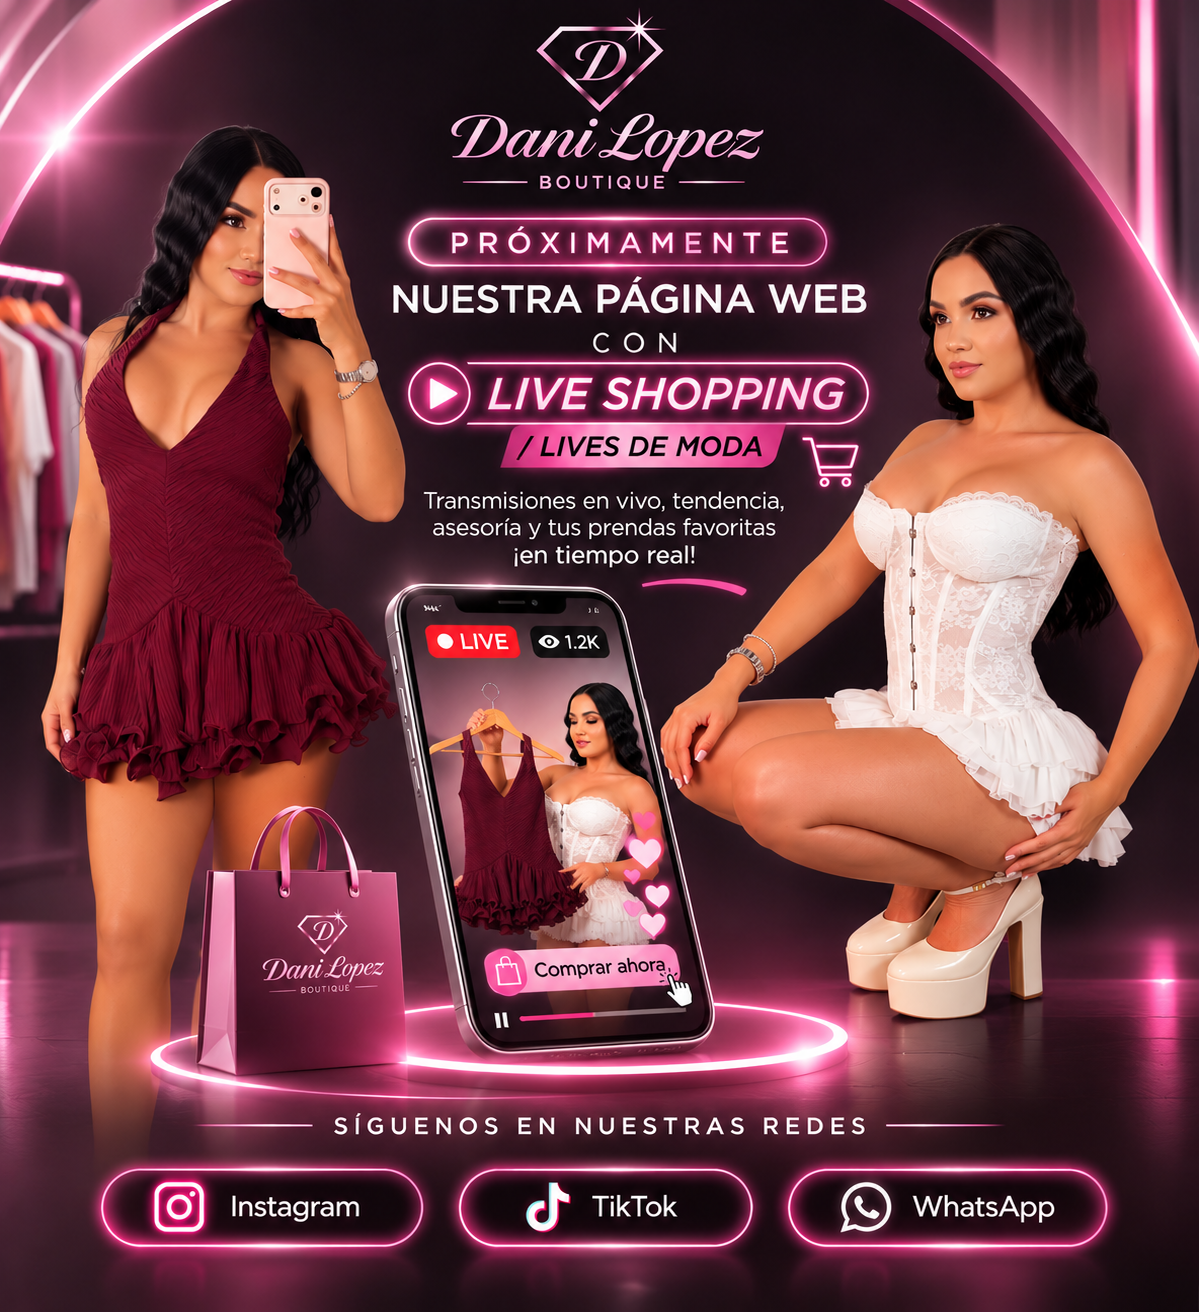
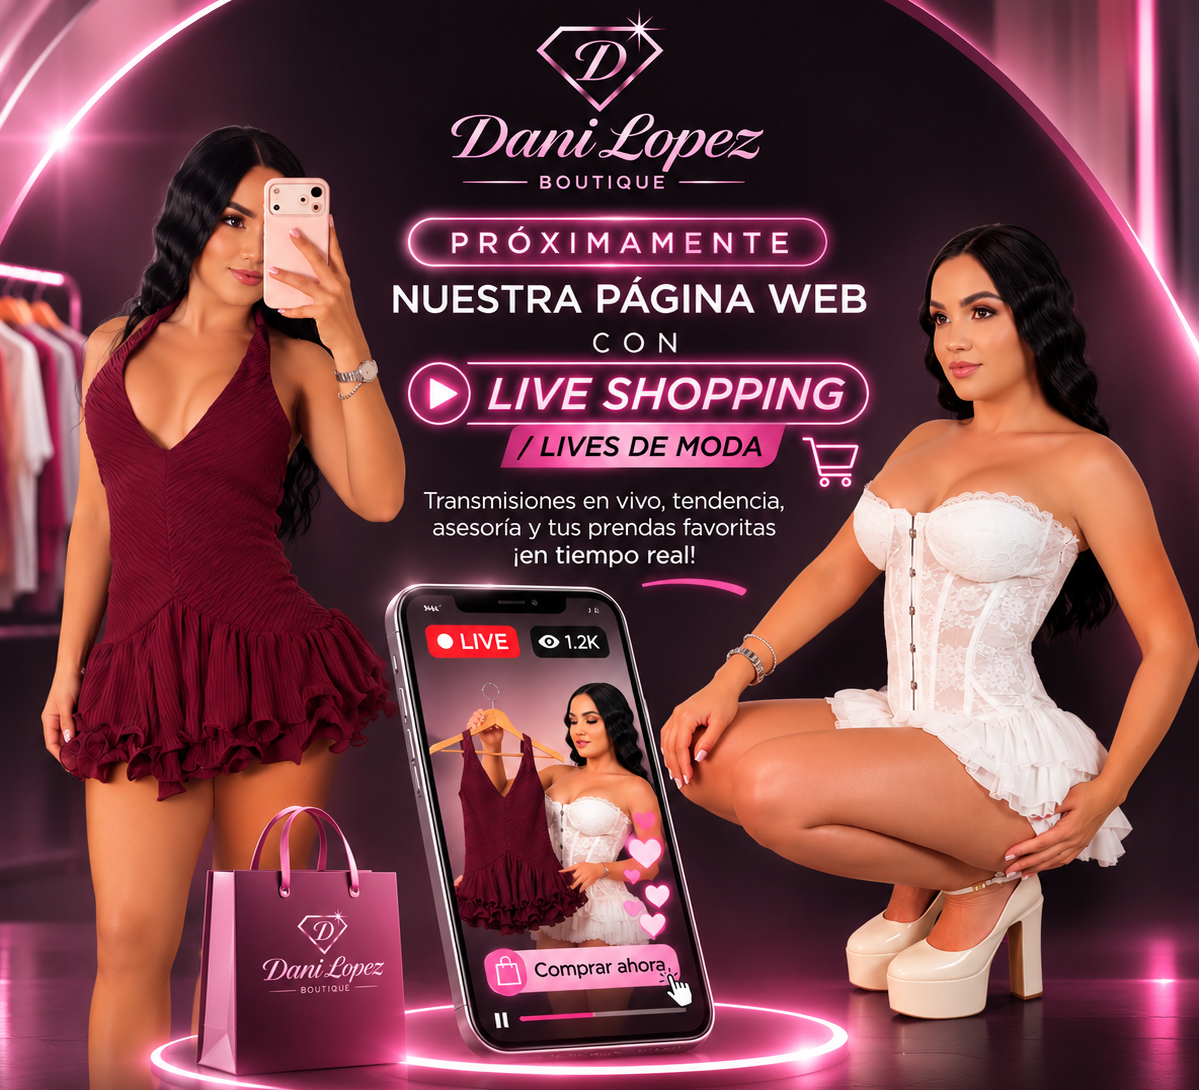
Add files via upload

diff --git a/index.html b/index.html
@@ -3,43 +3,120 @@
 <head>
   <meta charset="utf-8">
   <meta name="viewport" content="width=device-width, initial-scale=1">
-  <meta name="theme-color" content="#160914">
-  <meta name="description" content="Dani López Boutique: próximamente nuestra tienda online y lives de moda. Síguenos en Instagram, TikTok y WhatsApp.">
+  <meta name="theme-color" content="#180b17">
+  <meta name="description" content="Dani López Boutique: próximamente nuestra tienda con Live Shopping y lives de moda. Encuéntranos en Instagram, TikTok y WhatsApp.">
   <title>Dani López Boutique | Próximamente · Live Shopping</title>
   <link rel="preload" as="image" href="campana-live-shopping.png">
   <style>
-    :root{color-scheme:dark;--pink:#ff75b8;--pink-light:#ffd6e9;--bg:#120911}
-    *{box-sizing:border-box}
-    html{background:var(--bg);scroll-behavior:smooth}
-    body{margin:0;min-height:100vh;display:flex;align-items:center;justify-content:center;padding:clamp(8px,2vw,28px);font-family:Arial,Helvetica,sans-serif;background:radial-gradient(ellipse 65% 65% at 50% 40%,#5b1b44 0%,#240e20 55%,#0d070c 100%);color:#fff}
-    main{width:min(100%,950px);margin:auto}
-    .poster{position:relative;isolation:isolate;overflow:hidden;border:1px solid rgba(255,173,217,.29);border-radius:clamp(12px,2vw,24px);box-shadow:0 0 32px rgba(255,70,160,.16),0 30px 90px rgba(0,0,0,.5)}
-    .poster img{display:block;width:100%;height:auto;user-select:none;-webkit-user-drag:none}
-    /* Las áreas interactivas coinciden con los tres botones impresos en la imagen. */
-    .social{position:absolute;top:86.7%;height:6.25%;display:block;border-radius:999px;z-index:2;text-decoration:none;outline:none;-webkit-tap-highlight-color:transparent;transition:box-shadow .28s ease,transform .28s ease,background-color .28s ease,filter .28s ease}
-    .social.instagram{left:8.1%;width:27.8%}
-    .social.tiktok{left:39.0%;width:24.8%}
-    .social.whatsapp{left:66.7%;width:26.5%}
-    .social:hover,.social:focus-visible{transform:translateY(-5px) scale(1.055);background:rgba(255,124,193,.12);box-shadow:0 0 0 2px rgba(255,200,230,.85),0 0 16px 5px rgba(255,78,172,.82),0 0 36px 10px rgba(255,43,147,.58),inset 0 0 14px rgba(255,190,220,.3);filter:brightness(1.15)}
-    .social:active{transform:translateY(-1px) scale(1.02)}
-    .social::after{content:"";position:absolute;inset:-2px;border-radius:inherit;background:linear-gradient(110deg,transparent 25%,rgba(255,255,255,.55) 45%,transparent 58%);background-size:240% 100%;background-position:130% 0;opacity:0;pointer-events:none}
-    .social:hover::after,.social:focus-visible::after{opacity:.75;animation:glint .7s ease-out both}
-    @keyframes glint{from{background-position:130% 0}to{background-position:-130% 0}}
-    .footer{padding:13px 12px 4px;text-align:center;color:#d4b4c6;font-size:12px;letter-spacing:.03em}
-    .footer a{color:#ffd2e8;text-underline-offset:3px}
-    @media (hover:none){.social:active{background:rgba(255,124,193,.22);box-shadow:0 0 0 2px var(--pink-light),0 0 18px 6px var(--pink)}}
-    @media(prefers-reduced-motion:reduce){*,*::before,*::after{animation:none!important;transition:none!important}}
+    :root {
+      color-scheme: dark;
+      --rose: #ee94be;
+      --rose-soft: #f9c8df;
+      --rose-muted: #b5638c;
+      --ink: #180b17;
+      --line: rgba(242,159,196,.63);
+      --ease: cubic-bezier(.2,.72,.26,1);
+    }
+    *, *::before, *::after { box-sizing: border-box; }
+    html { min-width: 320px; background:var(--ink); }
+    body {
+      margin:0; min-height:100vh; padding:clamp(10px,2vw,26px);
+      display:grid; place-items:center;
+      font-family:Inter,ui-sans-serif,system-ui,-apple-system,"Segoe UI",Arial,sans-serif;
+      color:#fff8fb;
+      background:radial-gradient(ellipse at 50% 35%,#4d1a3b 0%,#241020 51%,#0e090f 100%);
+    }
+    main { width:min(100%,960px); }
+    .campaign {
+      overflow:hidden; border-radius:clamp(14px,2vw,24px);
+      border:1px solid rgba(241,167,202,.23);
+      background:#1c0b19;
+      box-shadow:0 24px 85px rgba(0,0,0,.36),0 0 33px rgba(198,85,141,.12);
+    }
+    .hero {display:block;width:100%;height:auto;user-select:none;-webkit-user-drag:none}
+    .social-area {
+      padding:clamp(20px,3vw,33px) clamp(16px,5vw,55px) clamp(26px,4vw,45px);
+      text-align:center;
+      background:linear-gradient(180deg,#271022 0%,#220e1d 32%,#160b15 100%);
+      position:relative;
+    }
+    .social-area::before {
+      content:"";position:absolute;top:0;left:14%;right:14%;height:1px;
+      background:linear-gradient(90deg,transparent,rgba(245,161,200,.45),transparent);
+    }
+    .eyebrow {
+      margin:0 0 24px; font-size:clamp(.78rem,1.5vw,1rem);
+      font-weight:650;letter-spacing:.22em;text-transform:uppercase;
+      color:#f6d6e6;
+    }
+    .social-grid {display:grid;grid-template-columns:repeat(3,minmax(0,1fr));gap:clamp(10px,1.5vw,18px)}
+    .social-button {
+      position:relative;isolation:isolate;display:flex;align-items:center;justify-content:center;
+      gap:clamp(7px,1.1vw,14px);min-height:clamp(58px,7vw,76px);padding:12px 14px;
+      border:1px solid var(--line);border-radius:999px;
+      background:linear-gradient(145deg,rgba(74,30,55,.76),rgba(27,14,27,.96));
+      color:#fff5fa;text-decoration:none;font-size:clamp(.95rem,1.6vw,1.15rem);font-weight:570;
+      letter-spacing:.005em;box-shadow:inset 0 1px 0 rgba(255,255,255,.12),0 8px 24px rgba(0,0,0,.18);
+      outline:0;cursor:pointer;-webkit-tap-highlight-color:transparent;
+      transition:transform 300ms var(--ease),background 300ms ease,color 300ms ease,
+        border-color 300ms ease,box-shadow 300ms ease,opacity 300ms ease;
+    }
+    .social-button svg {width:clamp(23px,2.8vw,31px);height:clamp(23px,2.8vw,31px);flex:none;fill:currentColor;transition:transform 300ms var(--ease),color 300ms ease}
+    .social-button:hover {
+      transform:translateY(-3px) scale(1.035);
+      color:#fff;
+      border-color:#ffd4e6;
+      background:linear-gradient(145deg,#8f456c,#51283f 65%,#3a1b31);
+      box-shadow:0 9px 28px rgba(195,91,142,.25),0 0 0 1px rgba(248,176,212,.23),inset 0 1px 0 rgba(255,255,255,.25);
+    }
+    .social-button:hover svg {transform:scale(1.07)}
+    .social-button:focus-visible {
+      transform:translateY(-2px) scale(1.025);
+      border-color:#ffe5ef;outline:3px solid #ffd0e5;outline-offset:4px;
+      background:linear-gradient(145deg,#874167,#47243e);
+    }
+    .social-button:active {transform:translateY(0) scale(.975);background:#a0517c;box-shadow:inset 0 3px 10px rgba(0,0,0,.23)}
+    .social-button:disabled,.social-button[aria-disabled="true"] {
+      cursor:not-allowed;opacity:.42;filter:saturate(.4);transform:none;box-shadow:none;
+    }
+    .social-button:disabled:hover,.social-button[aria-disabled="true"]:hover {
+      transform:none;background:linear-gradient(145deg,rgba(74,30,55,.76),rgba(27,14,27,.96));border-color:var(--line);box-shadow:none;
+    }
+    .footer {margin:18px 0 0;text-align:center;font-size:.76rem;color:#c6a4b8;letter-spacing:.02em}
+    @media(max-width:590px) {
+      .social-grid{grid-template-columns:1fr;gap:12px;max-width:390px;margin:auto}
+      .social-button{min-height:58px;font-size:1.03rem;}
+      .eyebrow{line-height:1.6;letter-spacing:.16em;margin-bottom:20px}
+    }
+    @media(prefers-reduced-motion:reduce) {
+      .social-button,.social-button svg{transition:none!important}
+    }
   </style>
 </head>
 <body>
   <main>
-    <div class="poster" aria-label="Dani López Boutique: próximamente página web con Live Shopping y lives de moda. Síguenos en redes sociales.">
-      <img src="campana-live-shopping.png" width="1199" height="1312" alt="Dani López Boutique. Próximamente nuestra página web con Live Shopping y lives de moda. Síguenos en Instagram, TikTok y WhatsApp.">
-      <a class="social instagram" href="https://www.instagram.com/boutiquedanilopez_/" target="_blank" rel="noopener noreferrer" aria-label="Abrir Instagram de Dani López Boutique" title="Seguirnos en Instagram"><span class="sr-only" style="position:absolute;clip:rect(0,0,0,0);width:1px;height:1px;overflow:hidden">Instagram</span></a>
-      <a class="social tiktok" href="https://www.tiktok.com/@ventas.danilopez" target="_blank" rel="noopener noreferrer" aria-label="Abrir TikTok de Dani López Boutique" title="Ver nuestros videos en TikTok"><span class="sr-only" style="position:absolute;clip:rect(0,0,0,0);width:1px;height:1px;overflow:hidden">TikTok</span></a>
-      <a class="social whatsapp" href="https://wa.me/573006953032?text=Hola%2C%20quiero%20conocer%20las%20novedades%20de%20Dani%20L%C3%B3pez%20Boutique" target="_blank" rel="noopener noreferrer" aria-label="Escribir al WhatsApp de Dani López Boutique" title="Escríbenos por WhatsApp"><span class="sr-only" style="position:absolute;clip:rect(0,0,0,0);width:1px;height:1px;overflow:hidden">WhatsApp</span></a>
+    <div class="campaign">
+      <img class="hero" src="campana-live-shopping.png" width="1199" height="1090"
+           alt="Dani López Boutique. Próximamente nuestra página web con Live Shopping y lives de moda. Prendas y transmisiones en vivo." fetchpriority="high">
+      <nav class="social-area" aria-label="Redes sociales de Dani López Boutique">
+        <h1 class="eyebrow">Síguenos en nuestras redes</h1>
+        <div class="social-grid">
+          <a class="social-button" href="https://www.instagram.com/boutiquedanilopez_/" target="_blank" rel="noopener noreferrer" aria-label="Visitar el Instagram de Dani López Boutique">
+            <svg viewBox="0 0 24 24" aria-hidden="true"><path d="M7 2h10a5 5 0 0 1 5 5v10a5 5 0 0 1-5 5H7a5 5 0 0 1-5-5V7a5 5 0 0 1 5-5Zm0 2a3 3 0 0 0-3 3v10a3 3 0 0 0 3 3h10a3 3 0 0 0 3-3V7a3 3 0 0 0-3-3H7Zm5 3a5 5 0 1 1 0 10 5 5 0 0 1 0-10Zm0 2a3 3 0 1 0 0 6 3 3 0 0 0 0-6Zm5.5-3a1.5 1.5 0 1 1 0 3 1.5 1.5 0 0 1 0-3Z"/></svg>
+            <span>Instagram</span>
+          </a>
+          <a class="social-button" href="https://www.tiktok.com/@ventas.danilopez" target="_blank" rel="noopener noreferrer" aria-label="Visitar el TikTok de Dani López Boutique">
+            <svg viewBox="0 0 24 24" aria-hidden="true"><path d="M16 2h-3v13.1a3.1 3.1 0 1 1-2.8-3.08V9a6.1 6.1 0 1 0 5.8 6.1V8.3a8.8 8.8 0 0 0 5 1.55V6.8A5.8 5.8 0 0 1 16 2Z"/></svg>
+            <span>TikTok</span>
+          </a>
+          <a class="social-button" href="https://wa.me/573006953032?text=Hola%2C%20quiero%20conocer%20las%20novedades%20de%20Dani%20L%C3%B3pez%20Boutique" target="_blank" rel="noopener noreferrer" aria-label="Escribir al WhatsApp de Dani López Boutique">
+            <svg viewBox="0 0 24 24" aria-hidden="true"><path d="M20.5 3.5A11.35 11.35 0 0 0 12.08 0C5.53 0 .2 5.3.2 11.86c0 2.1.55 4.16 1.6 5.98L0 24l6.33-1.66a11.8 11.8 0 0 0 5.75 1.47h.01c6.55 0 11.87-5.33 11.9-11.88a11.8 11.8 0 0 0-3.49-8.43Zm-8.42 18.3a9.85 9.85 0 0 1-5.03-1.38l-.36-.21-3.75.98 1-3.65-.24-.37a9.82 9.82 0 0 1-1.5-5.31c0-5.46 4.44-9.9 9.9-9.9a9.8 9.8 0 0 1 7 2.9 9.8 9.8 0 0 1 2.89 7.01c-.02 5.47-4.46 9.93-9.91 9.93Zm5.42-7.43c-.3-.15-1.75-.86-2.02-.96-.27-.1-.46-.15-.66.15-.2.3-.76.96-.93 1.16-.17.2-.34.22-.63.07a8.1 8.1 0 0 1-2.38-1.47 9.03 9.03 0 0 1-1.65-2.05c-.17-.3-.02-.46.13-.61.13-.13.3-.35.44-.52.15-.17.2-.3.3-.5.1-.2.05-.37-.02-.52-.07-.15-.66-1.59-.9-2.18-.24-.57-.48-.49-.66-.5h-.56c-.2 0-.52.08-.79.37s-1.04 1.02-1.04 2.48 1.07 2.86 1.22 3.06c.15.2 2.12 3.24 5.13 4.54.72.31 1.28.5 1.72.64.72.23 1.37.2 1.89.12.58-.09 1.75-.72 2-1.41.25-.7.25-1.29.18-1.41-.07-.12-.27-.2-.56-.34Z"/></svg>
+            <span>WhatsApp</span>
+          </a>
+        </div>
+        <p class="footer">Muy pronto: moda, estilo y compras en vivo.</p>
+      </nav>
     </div>
-    <p class="footer">Muy pronto: nuestra nueva experiencia de moda y compras en vivo. · <a href="https://www.instagram.com/boutiquedanilopez_/" target="_blank" rel="noopener noreferrer">@boutiquedanilopez_</a></p>
   </main>
 </body>
 </html>
